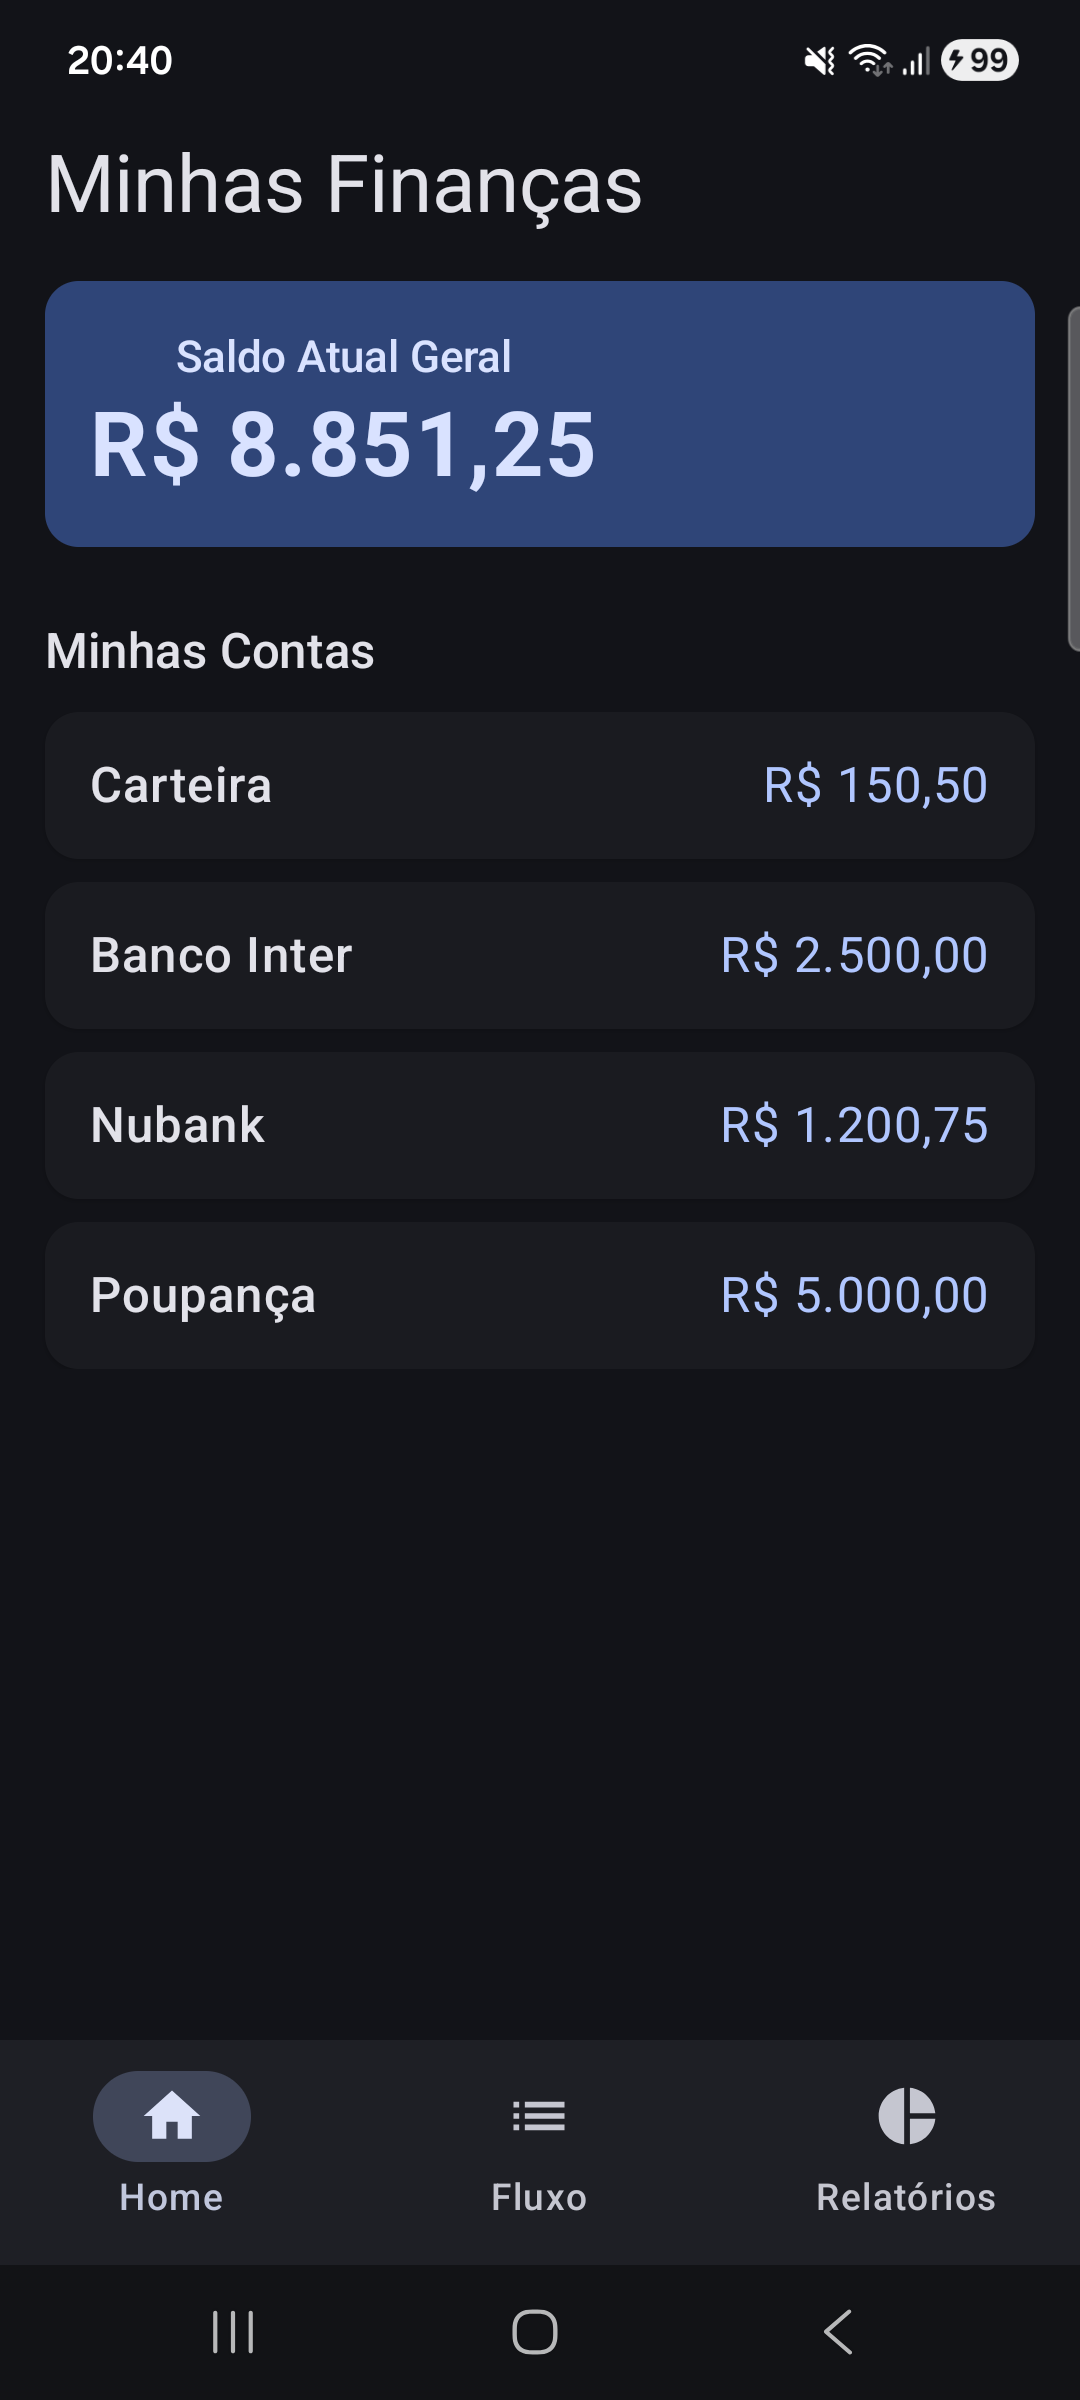
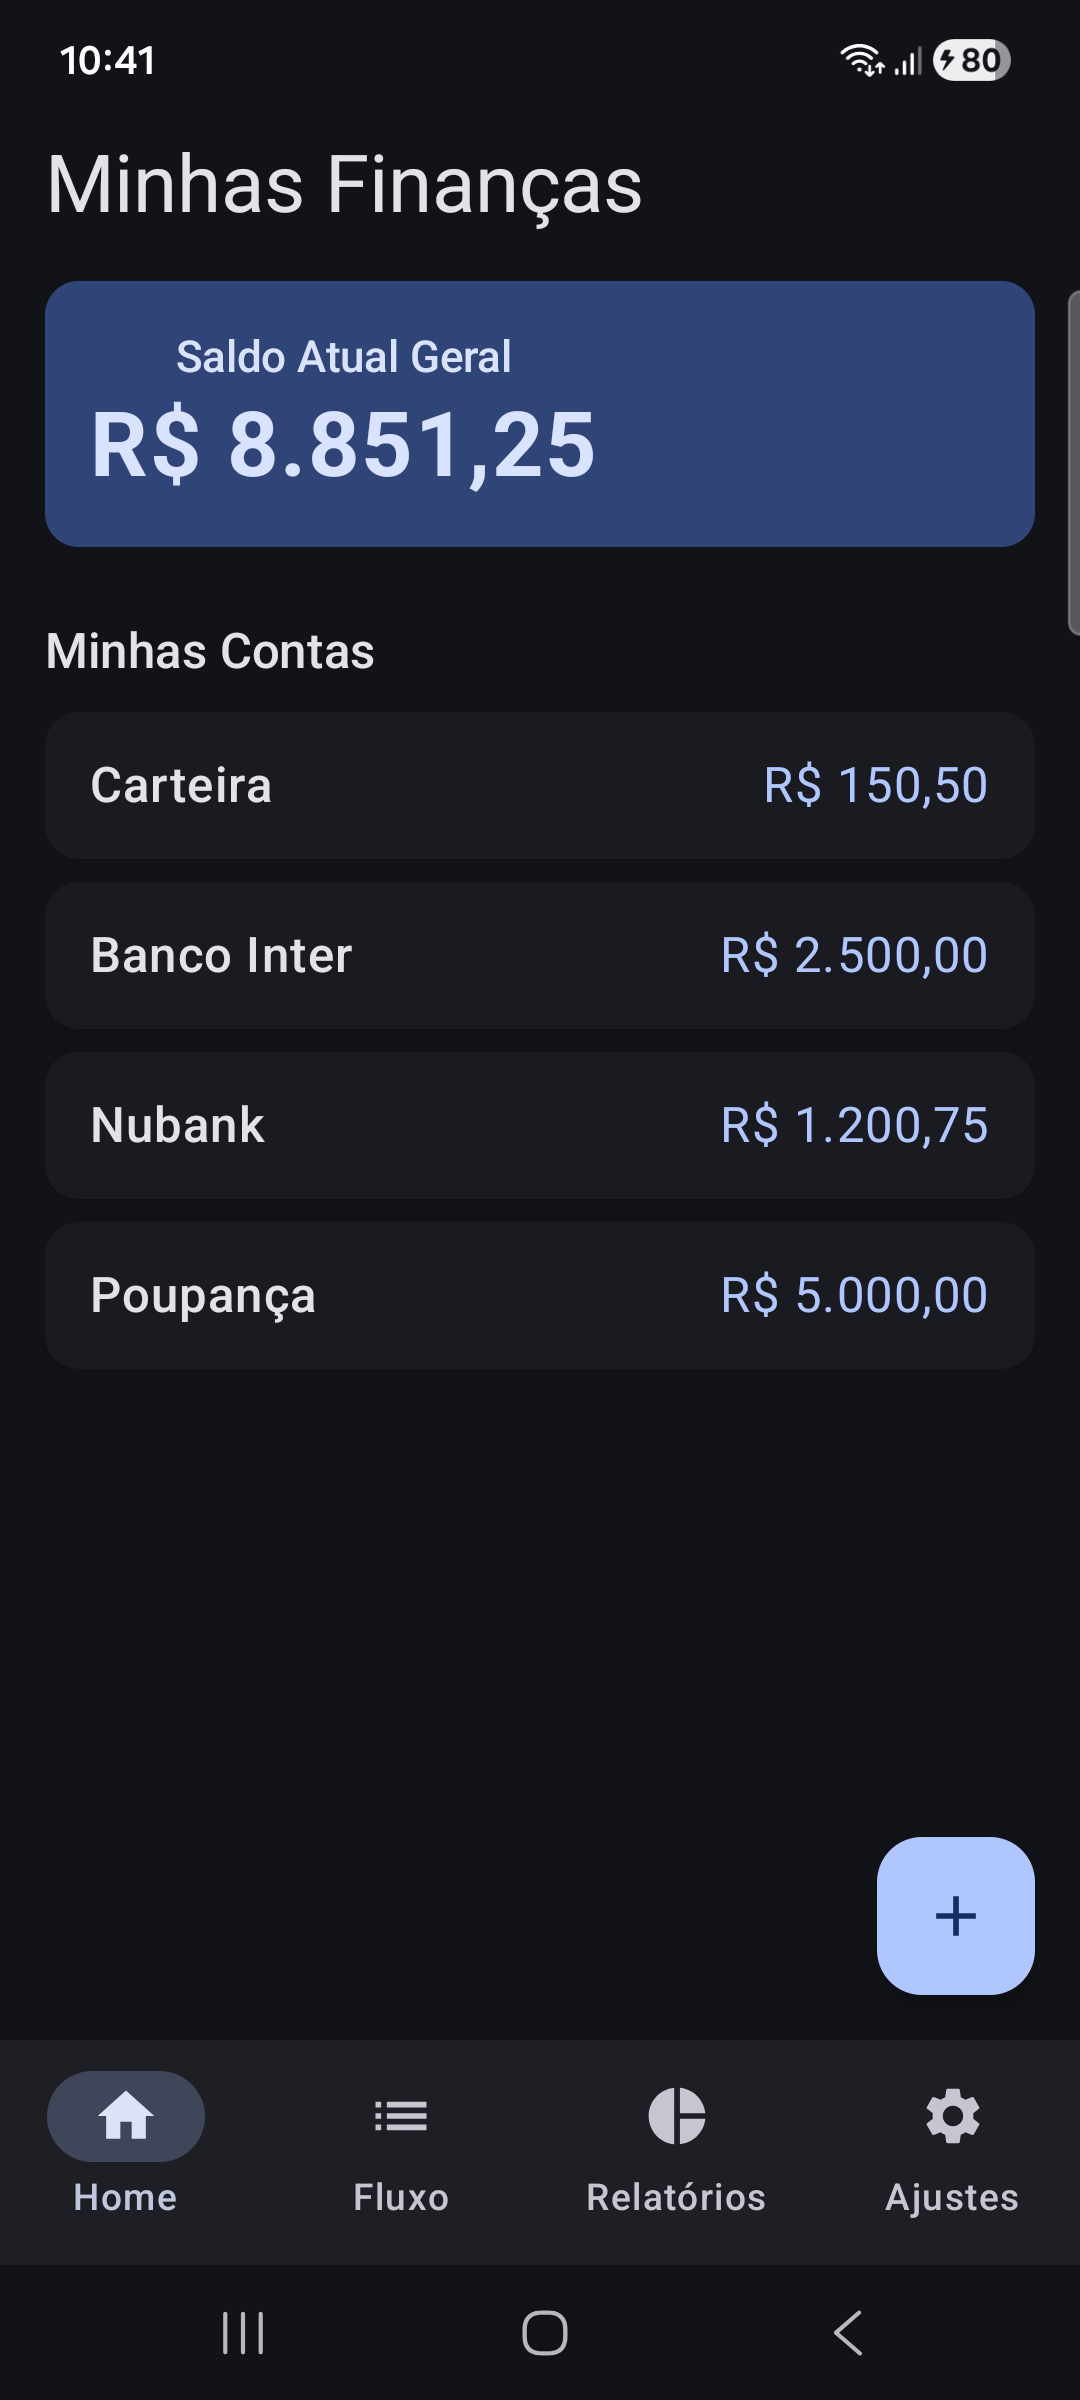
docs: Updating README file and screenshots

diff --git a/README.md b/README.md
@@ -63,6 +63,9 @@ O projeto está dividido em etapas incrementais e controladas para garantir a en
   - Tela Home: Exibição do saldo geral unificado e listagem detalhada por conta (dados estáticos).
   - Tela Fluxo de Caixa: Extrato de lançamentos mensais com paginação/filtro por mês (dados estáticos).
   - Tela Relatórios: Gráficos de relatórios mensais com paginação/filtro por mês (dados estáticos).
+  - Tela Lancamentos: Lançamentos de Despesa/Receita (dados estáticos).
+  - Tela Gerenciamento de Contas: CRUD de contas (dados estáticos).
+  - Tela Gerenciamento de Categorias/Subcategorias: CRUD de categorias/subcategorias (dados estáticos).
 - [ ] **Fase 2: Persistência e Regras de Negócio (Em andamento)**
   - Implementação do banco de dados local com Room.
   - CRUD completo de Contas Bancárias.
@@ -87,9 +90,14 @@ com.casamassa.prospera/
 └── presentation/          # Camada de Apresentação (Interface)
     ├── navigation/        # Controle de rotas da aplicação
     ├── theme/             # Design System (Cores, Tipos do Material 3)
+    ├── components/        # Componentes reutilizáveis
     ├── home/              # Feature: Tela Inicial (Screen + ViewModel)
     ├── fluxo/             # Feature: Extrato Mensal (Screen + ViewModel)
-    └── relatorios/        # Feature: Relatório Mensal (Screen + ViewModel)
+    ├── relatorios/        # Feature: Relatório Mensal (Screen + ViewModel)
+    ├── contas/            # Feature: Gerenciamento Contas (Screen + ViewModel)
+    ├── categorias/        # Feature: Gerenciamento Categorias/Subcategotias (Screen + ViewModel)
+    ├── lancamento/        # Feature: Form de lancamento Despesa/Receita (Form + ViewModel)
+    └── configuracoes/     # Feature: Submenu acessivel pelo Bottom Menu Bar (Screen)
 ```
 
 ---
